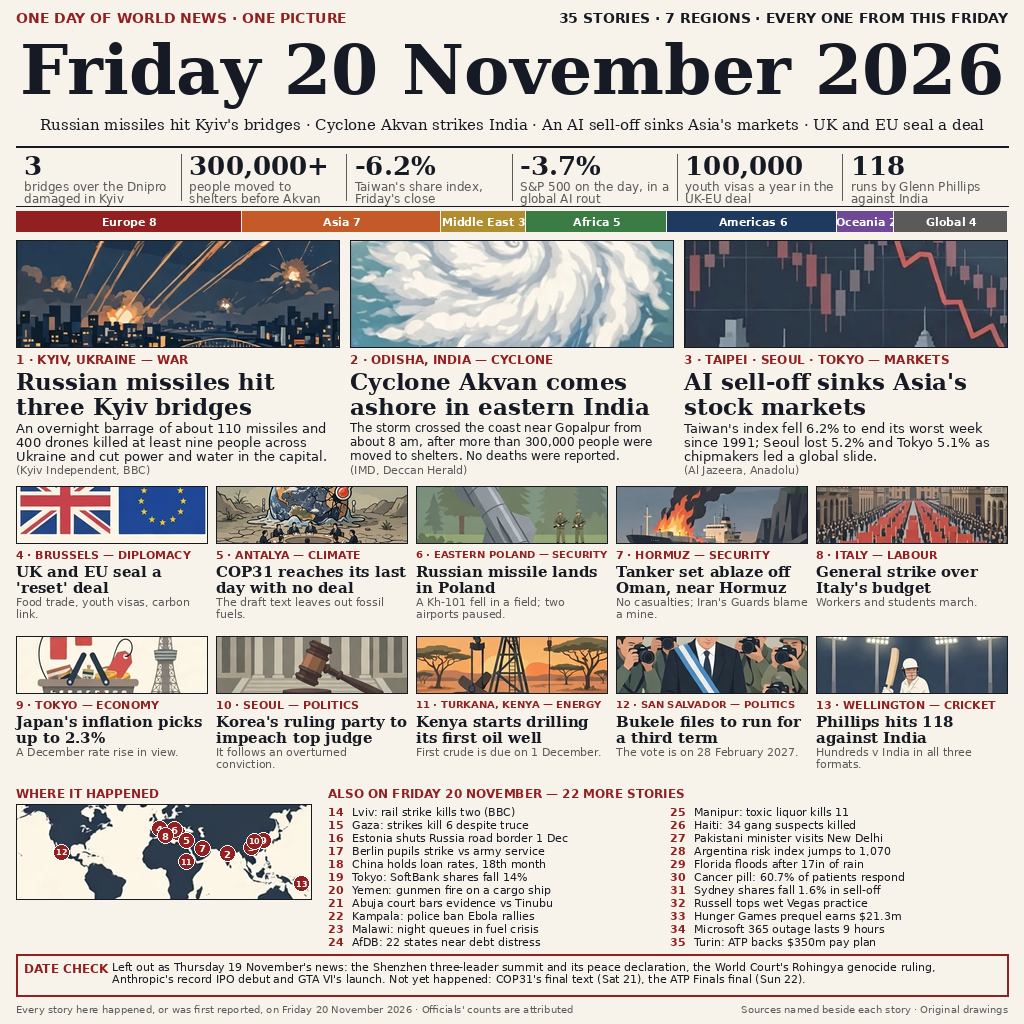
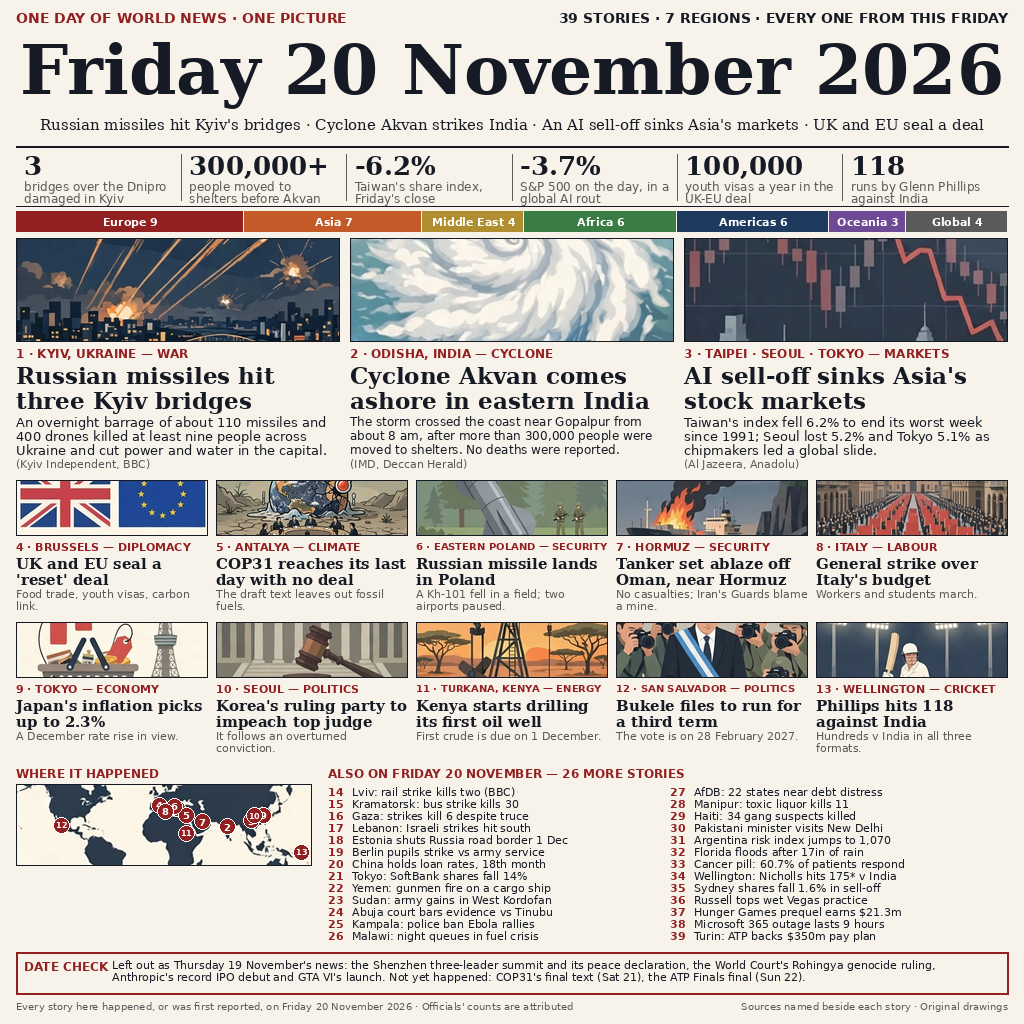
Widen to 39 stories: add Kramatorsk bus strike, Sudan, Lebanon strikes and Nicholls 175*

Changed region(s): [[0.0, 0.1875, 1.0, 1.0]]

diff --git a/README.md b/README.md
@@ -7,14 +7,14 @@
 Entry for make.fun's ["Sum up 20 November's world news in one image"](https://make.fun/bounty/news-image-20261120) bounty.
 
 A one-page broadsheet that sums up the world's news of Friday
-20 November 2026 in 35 stories across 7 regions: Russian missiles
+20 November 2026 in 39 stories across 7 regions: Russian missiles
 hitting Kyiv's three Dnipro bridges, Cyclone Akvan's landfall in
 Odisha, the AI sell-off that sank Asia's stock markets, the UK-EU
 reset deal, COP31's deadlocked last day in Antalya, a Russian
 missile in Poland, a tanker ablaze near Hormuz, Italy's general
 strike, Japan's inflation, Seoul's impeachment move, Kenya's first
 oil well, Bukele's third-term filing and Glenn Phillips's 118 -
-plus 22 more stories, a map, and a date check that keeps Thursday
+plus 26 more stories, a map, and a date check that keeps Thursday
 19 November's news (the Shenzhen summit, the Rohingya ruling,
 Anthropic's IPO debut) out.
 
